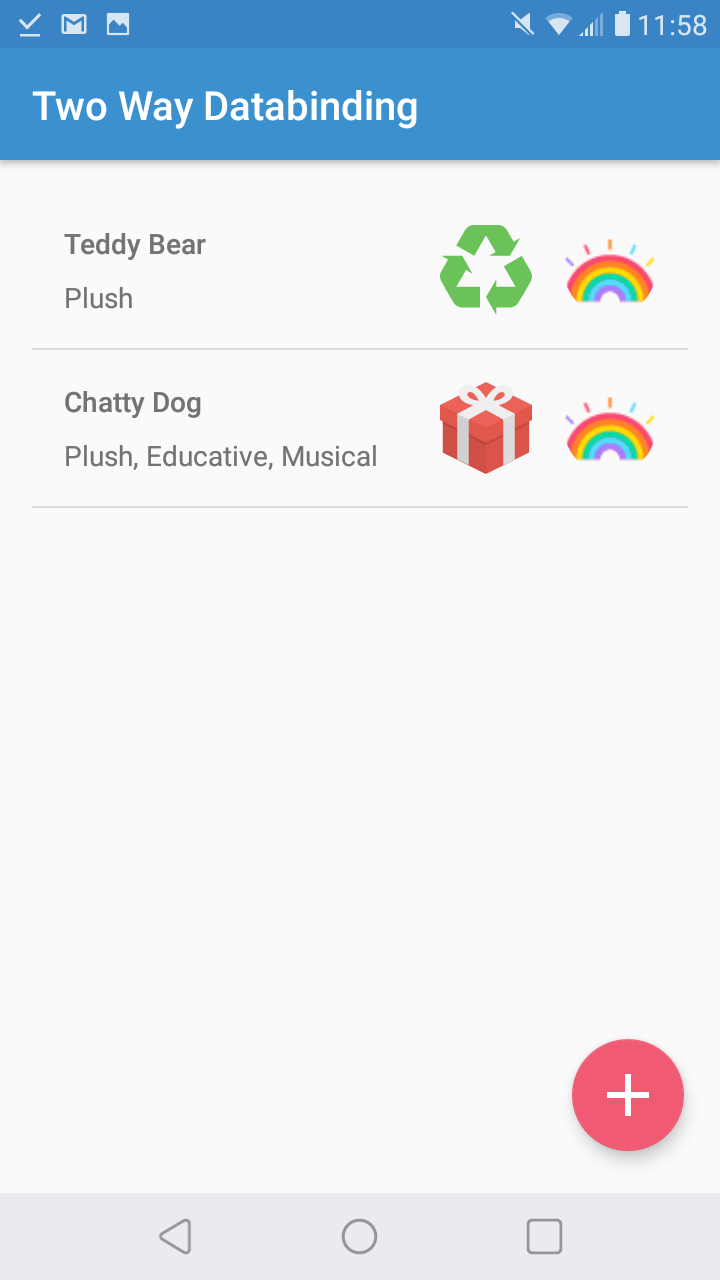
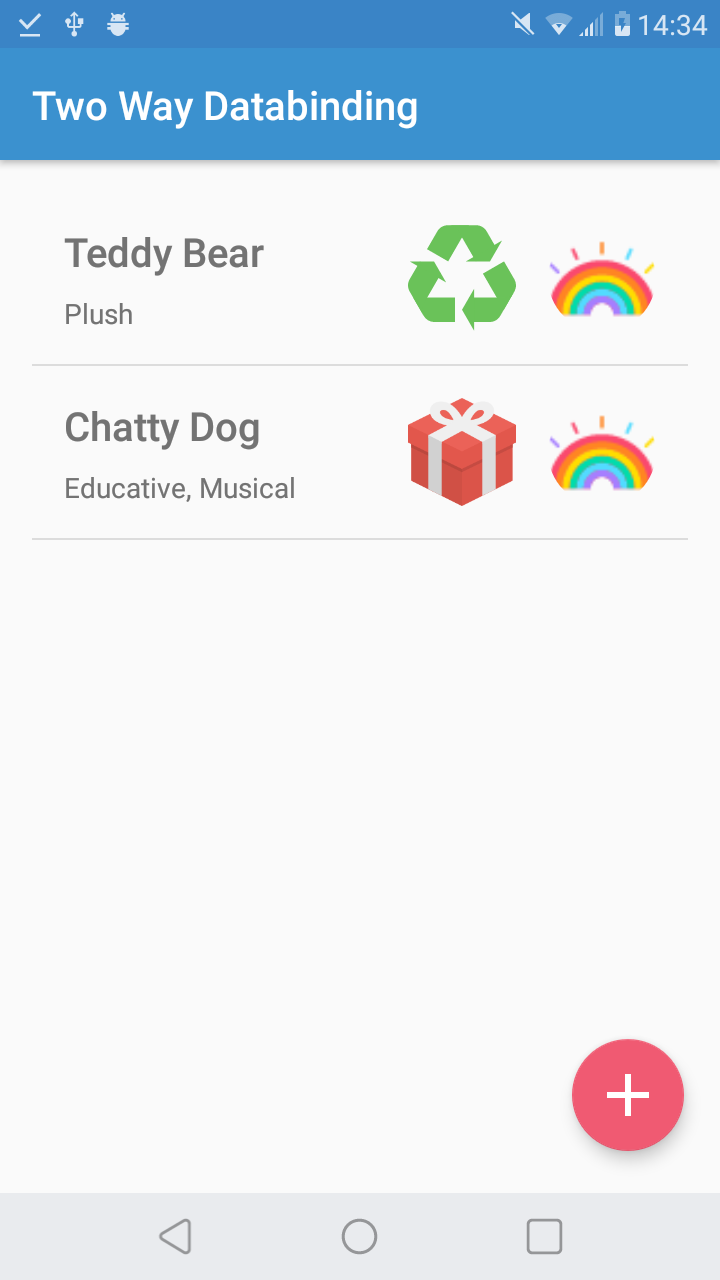
add warning for unsaved changes, change model class, check empty toy name and minor changes in layout

diff --git a/TwoWayDatabinding/app/src/main/java/com/enpassio/twowaydatabinding/ui/AddToyFragment.java b/TwoWayDatabinding/app/src/main/java/com/enpassio/twowaydatabinding/ui/AddToyFragment.java
@@ -1,5 +1,6 @@
 package com.enpassio.twowaydatabinding.ui;
 
+import android.arch.lifecycle.LiveData;
 import android.arch.lifecycle.ViewModelProviders;
 import android.databinding.DataBindingUtil;
 import android.os.Bundle;
@@ -7,13 +8,18 @@ import android.support.annotation.NonNull;
 import android.support.annotation.Nullable;
 import android.support.v4.app.Fragment;
 import android.support.v4.app.FragmentManager;
+import android.support.v7.app.ActionBar;
+import android.support.v7.app.AlertDialog;
 import android.support.v7.app.AppCompatActivity;
+import android.text.TextUtils;
 import android.view.LayoutInflater;
 import android.view.MenuItem;
 import android.view.View;
 import android.view.ViewGroup;
+import android.widget.Toast;
 
 import com.enpassio.twowaydatabinding.R;
+import com.enpassio.twowaydatabinding.data.ToyEntry;
 import com.enpassio.twowaydatabinding.databinding.AddToyBinding;
 import com.enpassio.twowaydatabinding.utils.InjectorUtils;
 import com.enpassio.twowaydatabinding.viewmodel.AddToyViewModel;
@@ -24,7 +30,8 @@ import static com.enpassio.twowaydatabinding.ui.ToyListFragment.TOY_ID;
 public class AddToyFragment extends Fragment {
 
     private AddToyBinding binding;
-    public static final int NEW_TOY = -1;
+    private AddToyViewModel mViewModel;
+    private static final int NEW_TOY = -1;
 
     public AddToyFragment() {
         setRetainInstance(true);
@@ -45,7 +52,10 @@ public class AddToyFragment extends Fragment {
     public void onActivityCreated(@Nullable Bundle savedInstanceState) {
         super.onActivityCreated(savedInstanceState);
 
-        ((AppCompatActivity) requireActivity()).getSupportActionBar().setDisplayHomeAsUpEnabled(true);
+        ActionBar actionBar = ((AppCompatActivity) requireActivity()).getSupportActionBar();
+        if(actionBar != null){
+            actionBar.setDisplayHomeAsUpEnabled(true);
+        }
 
         int toyId = NEW_TOY;
 
@@ -56,21 +66,56 @@ public class AddToyFragment extends Fragment {
 
         //Get the view model instance and pass it to the binding implementation
         AddToyViewModelFactory factory = new AddToyViewModelFactory(InjectorUtils.provideRepository(getContext()), toyId);
-        AddToyViewModel viewModel = ViewModelProviders.of(this, factory).get(AddToyViewModel.class);
+        mViewModel = ViewModelProviders.of(this, factory).get(AddToyViewModel.class);
 
-        binding.setViewModel(viewModel);
+        binding.setViewModel(mViewModel);
 
         if(toyId >= 0) { //Edit case
-            viewModel.getChosenToy().observe(this, toyEntry -> {
-                viewModel.setToyBeingModified(toyEntry);
+            LiveData<ToyEntry> chosenToy = mViewModel.getChosenToy();
+            chosenToy.observe(this, toyEntry -> {
+                mViewModel.setToyBeingModified(toyEntry);
                 binding.invalidateAll();
+                chosenToy.removeObservers(this);
             });
         }
 
-        binding.fab.setOnClickListener(v -> {
-            viewModel.saveToy();
+        binding.fab.setOnClickListener(v -> saveToy());
+    }
+
+    private void saveToy() {
+        // Verify that toy name is not empty
+        if(TextUtils.isEmpty(mViewModel.getToyBeingModified().getToyName())){
+            Toast.makeText(requireContext(), R.string.toy_empty_warning, Toast.LENGTH_SHORT).show();
+            return;
+        }
+        mViewModel.saveToy();
+        returnToListFragment();
+    }
+
+    /*This can be triggered either by up or both buttons. In both cases,
+    we first need to check whether there are unsaved changes and warn the user if necessary*/
+    public void onBackClicked(){
+        if(mViewModel.isChanged()){
+            openAlertDialog();
+        } else {
             returnToListFragment();
-        });
+        }
+    }
+
+    private void openAlertDialog(){
+        new AlertDialog.Builder(requireContext())
+                .setTitle(getString(R.string.unsaved_changes_warning_title))
+                .setMessage(getString(R.string.unsaved_changes_warning_message))
+                // Specifying a listener allows you to take an action before dismissing the dialog.
+                // The dialog is automatically dismissed when a dialog button is clicked.
+                .setPositiveButton(getString(R.string.yes), (dialog, which) -> {
+                    // Continue with back operation
+                    returnToListFragment();
+                })
+                // A null listener allows the button to dismiss the dialog and take no further action.
+                .setNegativeButton(android.R.string.no, null)
+                .setIcon(android.R.drawable.ic_dialog_alert)
+                .show();
     }
 
     private void returnToListFragment() {
@@ -84,7 +129,7 @@ public class AddToyFragment extends Fragment {
     public boolean onOptionsItemSelected(MenuItem item) {
         //This is for making up button in the toolbar behave like back button
         if (item.getItemId() == android.R.id.home) {
-            returnToListFragment();
+            onBackClicked();
         }
         return super.onOptionsItemSelected(item);
     }

diff --git a/TwoWayDatabinding/app/src/main/java/com/enpassio/twowaydatabinding/data/ToyEntry.java b/TwoWayDatabinding/app/src/main/java/com/enpassio/twowaydatabinding/data/ToyEntry.java
@@ -3,16 +3,13 @@ package com.enpassio.twowaydatabinding.data;
 import android.arch.persistence.room.Entity;
 import android.arch.persistence.room.Ignore;
 import android.arch.persistence.room.PrimaryKey;
-import android.databinding.BaseObservable;
-import android.databinding.Bindable;
-import android.util.Log;
+import android.support.annotation.Nullable;
 
-import com.enpassio.twowaydatabinding.BR;
-
+import java.util.HashMap;
 import java.util.Map;
 
 @Entity(tableName = "toys")
-public class ToyEntry extends BaseObservable {
+public class ToyEntry{
 
     private static final String TAG = "ToyEntry";
 
@@ -43,58 +40,63 @@ public class ToyEntry extends BaseObservable {
         return toyId;
     }
 
-    @Bindable
     public String getToyName() {
         return toyName;
     }
 
-    @Bindable
     public Map<String, Boolean> getCategories() {
         return categories;
     }
 
-    @Bindable
     public int getGender() {
         return gender;
     }
 
-    @Bindable
     public int getState() {
         return state;
     }
 
     public void setToyName(String toyName) {
         this.toyName = toyName;
-        notifyPropertyChanged(BR.toyName);
-        Log.d(TAG, "toy name set");
     }
 
     public void setCategories(Map<String, Boolean> categories) {
         this.categories = categories;
-        notifyPropertyChanged(BR.categories);
-        Log.d(TAG, "categories set");
     }
 
     public void setGender(int gender) {
         this.gender = gender;
-        notifyPropertyChanged(BR.gender);
-        Log.d(TAG, "gender set");
     }
 
     public void setState(int state) {
         this.state = state;
-        notifyPropertyChanged(BR.state);
-        Log.d(TAG, "state set");
+    }
+
+    public ToyEntry copy(){
+        Map<String, Boolean> newCategories = new HashMap<>(this.categories);
+        return new ToyEntry(toyId, toyName, newCategories, gender, state);
     }
 
     @Override
-    public String toString() {
-        return "ToyEntry{" +
-                "toyId=" + toyId +
-                ", toyName='" + toyName + '\'' +
-                ", categories=" + categories.size() +
-                ", gender=" + gender +
-                ", state=" + state +
-                '}';
+    public boolean equals(@Nullable Object obj) {
+
+        if(!(obj instanceof ToyEntry)) return false;
+
+        ToyEntry other = (ToyEntry) obj;
+
+        return other.getToyName().equals(toyName)
+            && other.getCategories().equals(categories)
+            && other.getGender() == gender
+            && other.getState() == state;
+    }
+
+    @Override
+    public int hashCode() {
+        int hash = 7;
+        hash = 31 * hash + (toyName == null ? 0 : toyName.hashCode());
+        hash = 31 * hash + (categories == null ? 0 : categories.hashCode());
+        hash = 31 * hash + gender;
+        hash = 31 * hash + state;
+        return hash;
     }
 }

diff --git a/TwoWayDatabinding/app/src/main/java/com/enpassio/twowaydatabinding/ui/ToyListFragment.java b/TwoWayDatabinding/app/src/main/java/com/enpassio/twowaydatabinding/ui/ToyListFragment.java
@@ -9,6 +9,7 @@ import android.support.design.widget.CoordinatorLayout;
 import android.support.design.widget.Snackbar;
 import android.support.v4.app.Fragment;
 import android.support.v4.app.FragmentManager;
+import android.support.v7.app.ActionBar;
 import android.support.v7.app.AppCompatActivity;
 import android.support.v7.widget.DefaultItemAnimator;
 import android.support.v7.widget.DividerItemDecoration;
@@ -63,14 +64,17 @@ public class ToyListFragment extends Fragment implements ToyAdapter.ToyClickList
     public void onActivityCreated(@Nullable Bundle savedInstanceState) {
         super.onActivityCreated(savedInstanceState);
 
-        ((AppCompatActivity) requireActivity()).getSupportActionBar().setDisplayHomeAsUpEnabled(false);
+        ActionBar actionBar = ((AppCompatActivity) requireActivity()).getSupportActionBar();
+        if(actionBar != null){
+            actionBar.setDisplayHomeAsUpEnabled(false);
+        }
 
         //Get the view model instance and pass it to the binding implementation
-        mViewModel = ViewModelProviders.of(getActivity()).get(MainViewModel.class);
+        mViewModel = ViewModelProviders.of(requireActivity()).get(MainViewModel.class);
         binding.setViewModel(mViewModel);
 
         //Claim list of toys from view model
-        mViewModel.getToyList().observe(getActivity(), toyEntries -> {
+        mViewModel.getToyList().observe(this, toyEntries -> {
             mViewModel.isLoading.set(false);
             if (toyEntries == null || toyEntries.isEmpty()) {
                 mViewModel.isEmpty.set(true);
@@ -83,7 +87,7 @@ public class ToyListFragment extends Fragment implements ToyAdapter.ToyClickList
         });
 
         //Attach an ItemTouchHelper for swipe-to-delete functionality
-        final CoordinatorLayout coordinator = getActivity().findViewById(R.id.main_coordinator);
+        final CoordinatorLayout coordinator = requireActivity().findViewById(R.id.main_coordinator);
         new ItemTouchHelper(new ItemTouchHelper.SimpleCallback(0, ItemTouchHelper.LEFT | ItemTouchHelper.RIGHT) {
             @Override
             public boolean onMove(@NonNull RecyclerView recyclerView, @NonNull RecyclerView.ViewHolder viewHolder, @NonNull RecyclerView.ViewHolder target) {

diff --git a/TwoWayDatabinding/app/src/main/java/com/enpassio/twowaydatabinding/viewmodel/AddToyViewModel.java b/TwoWayDatabinding/app/src/main/java/com/enpassio/twowaydatabinding/viewmodel/AddToyViewModel.java
@@ -32,7 +32,7 @@ public class AddToyViewModel extends ViewModel {
             /*This is for adding a new toy. We initialize a ToyEntry with default or null values
             This is because two-way databinding in the AddToyFragment is designed to
             register changes automatically, but it will need a toy object to register those changes.*/
-            mToyBeingModified = initializeEmptyToy();
+            mToyBeingModified = getEmptyToy();
             mIsEdit = false;
         }
     }
@@ -45,8 +45,8 @@ public class AddToyViewModel extends ViewModel {
         return mToyBeingModified;
     }
 
-    public void setToyBeingModified(ToyEntry toyBeingModified) {
-        this.mToyBeingModified = toyBeingModified;
+    public void setToyBeingModified(ToyEntry toy) {
+        mToyBeingModified = toy.copy();
     }
 
     private void insertToy(final ToyEntry toy){
@@ -65,7 +65,7 @@ public class AddToyViewModel extends ViewModel {
         }
     }
 
-    private ToyEntry initializeEmptyToy() {
+    private ToyEntry getEmptyToy() {
         Map<String, Boolean> categories = new HashMap<>();
         categories.put(WOODEN, false);
         categories.put(ELECTRONIC, false);
@@ -73,6 +73,16 @@ public class AddToyViewModel extends ViewModel {
         categories.put(PLUSH, false);
         categories.put(MUSICAL, false);
         categories.put(EDUCATIVE, false);
-        return new ToyEntry(null, categories, 0, 0);
+        return new ToyEntry("", categories, 0, 0);
+    }
+
+    public boolean isChanged(){
+        boolean isChanged;
+        if(mIsEdit){
+            isChanged = !mToyBeingModified.equals(mChosenToy.getValue());
+        } else {
+            isChanged = !mToyBeingModified.equals(getEmptyToy());
+        }
+        return isChanged;
     }
 }

diff --git a/TwoWayDatabinding/app/src/main/java/com/enpassio/twowaydatabinding/ui/MainActivity.java b/TwoWayDatabinding/app/src/main/java/com/enpassio/twowaydatabinding/ui/MainActivity.java
@@ -2,12 +2,13 @@ package com.enpassio.twowaydatabinding.ui;
 
 import android.databinding.DataBindingUtil;
 import android.os.Bundle;
+import android.support.v4.app.Fragment;
 import android.support.v7.app.AppCompatActivity;
 
 import com.enpassio.twowaydatabinding.R;
 import com.enpassio.twowaydatabinding.databinding.ActivityMainBinding;
 
-public class MainActivity extends AppCompatActivity{
+public class MainActivity extends AppCompatActivity {
 
     @Override
     protected void onCreate(Bundle savedInstanceState) {
@@ -21,4 +22,16 @@ public class MainActivity extends AppCompatActivity{
                     .commit();
         }
     }
+
+    @Override
+    public void onBackPressed() {
+        Fragment currentFrag = getSupportFragmentManager().findFragmentById(R.id.main_container);
+        if (currentFrag instanceof AddToyFragment) {
+            ((AddToyFragment)currentFrag).onBackClicked();
+        } else {
+            super.onBackPressed();
+        }
+    }
+
 }
+
